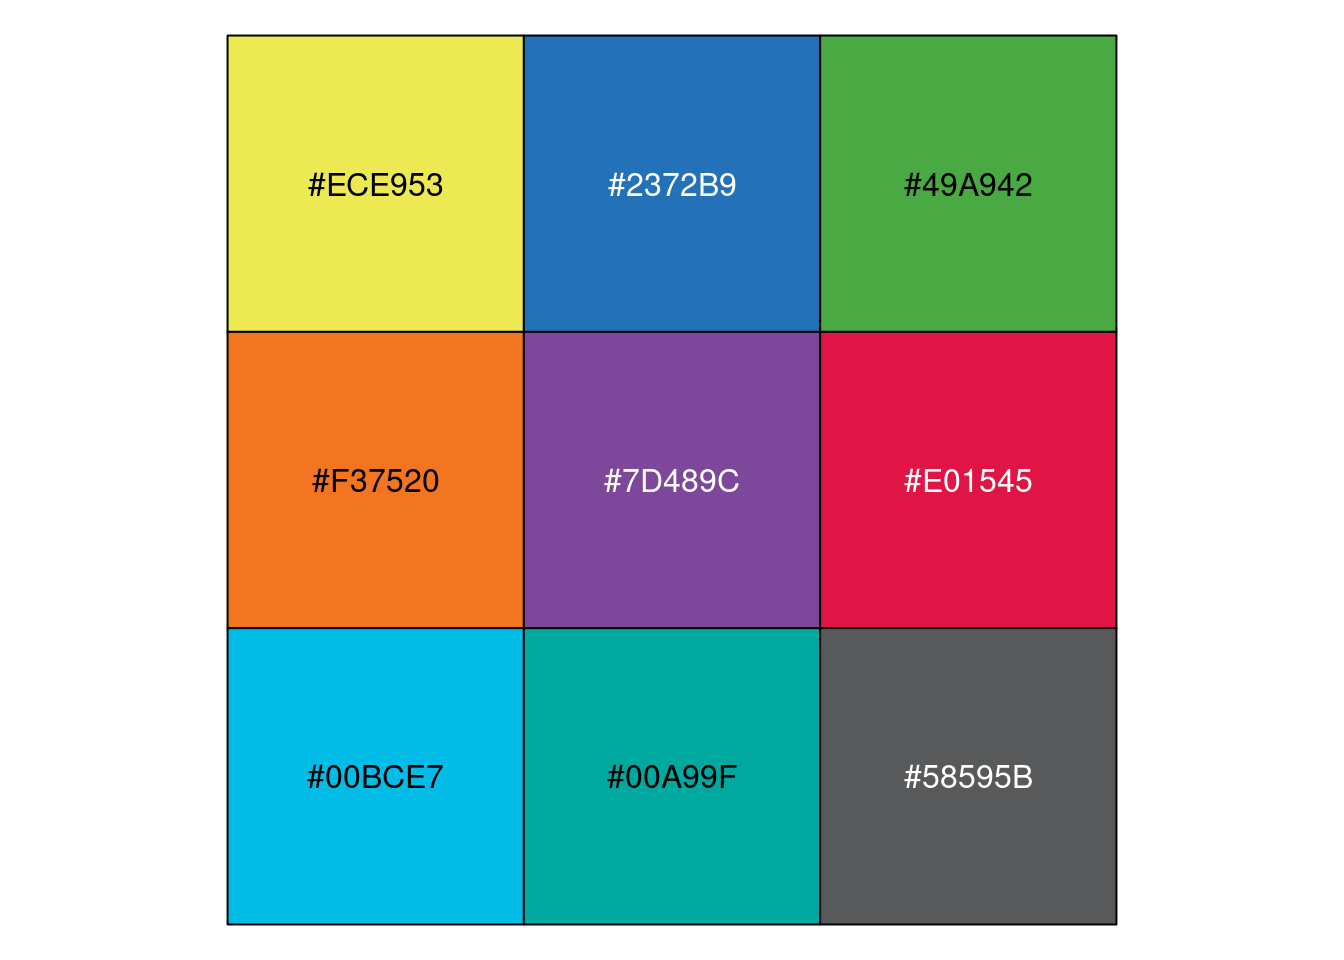
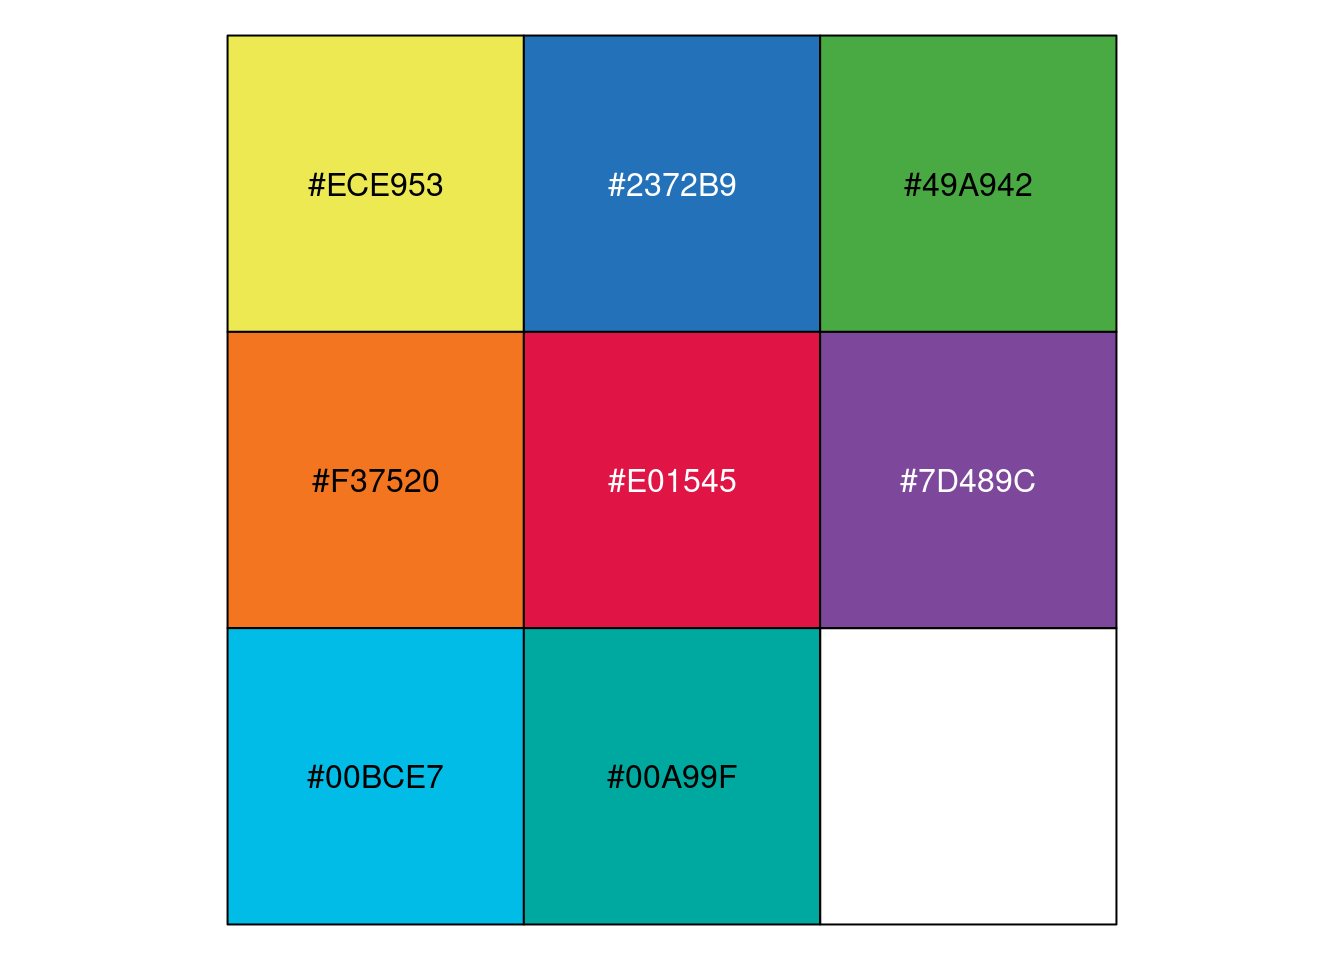
added paired scale, refactored continuous scale

Changed region(s): [[0.375, 0.3438, 0.8438, 0.9688]]

diff --git a/README.md b/README.md
@@ -14,73 +14,112 @@ devtools::install_github("jemunro/ggwehi")
 ``` r
 library(tidyverse)
 library(ggwehi)
-set.seed(1)
+
 diamonds %>% 
-  sample_n(5000) %>% 
-  ggplot(aes(x = cut, y = price, col = carat)) +
-  geom_jitter(height = 0) + 
-  geom_boxplot(fill = NA, outlier.colour = NA) +
-  scale_colour_wehi_continuous() +
-  ggtitle('Diamonds cut, carat and price')
+  ggplot(aes(x = cut, fill = clarity)) +
+  geom_bar() +
+  scale_fill_wehi() +
+  ggtitle('scale_fill_wehi()')
 ```
 
 <img src="README_figs/README-examples-1.png" width="672" />
 
 ``` r
-diamonds %>% 
-  ggplot(aes(x = cut, fill = clarity)) +
-  geom_bar() +
-  scale_fill_wehi() +
-  ggtitle('Diamonds clarity by cut')
+set.seed(1)
+tibble(class_condition = c(rbind(str_c(1:5, 'A'), str_c(1:5, 'B'))),
+       class = str_extract(class_condition, '^.'),
+       condition = str_extract(class_condition, '.$'),
+       value = abs(rnorm(length(class)))) %>% 
+  ggplot(aes(class, value, fill = class_condition)) +
+  geom_col() +
+  scale_fill_wehi_paired() +
+  ggtitle('scale_fill_wehi_paired()')
 ```
 
 <img src="README_figs/README-examples-2.png" width="672" />
 
+``` r
+set.seed(2)
+diamonds %>% 
+  sample_n(5000) %>% 
+  ggplot(aes(x = cut, y = price, col = carat)) +
+  geom_jitter(height = 0, width = 0.35) + 
+  geom_boxplot(fill = NA, outlier.colour = NA, col = 'black') +
+  scale_colour_wehi_continuous() +
+  ggtitle('scale_colour_wehi_continuous()')
+```
+
+<img src="README_figs/README-examples-3.png" width="672" />
+
+``` r
+set.seed(2)
+diamonds %>% 
+  sample_n(5000) %>% 
+  ggplot(aes(x = cut, y = price, col = carat)) +
+  geom_jitter(height = 0, width = 0.35) + 
+  geom_boxplot(fill = NA, outlier.colour = NA, col = 'black') +
+  scale_colour_wehi_continuous(option = 'B') +
+  ggtitle('scale_colour_wehi_continuous(option = \'B\')')
+```
+
+<img src="README_figs/README-examples-4.png" width="672" />
+
 ### Scale functions
 
-  - `scale_fill_wehi()`
-  - `scale_colour_wehi()`
-  - `scale_fill_wehi_ordered()`
-  - `scale_colour_wehi_ordered()`
-  - `scale_fill_wehi_continuous()`
-  - `scale_colour_wehi_continuous()`
-  - `scale_fill_wehi_continuous_c()`
-  - `scale_colour_wehi_continuous_c()`
+  - `scale_fill_wehi()`/`scale_colour_wehi()`
+  - `scale_fill_wehi_paired()`/`scale_colour_wehi_paired()`
+      - Note: This will only work if the aesthetic is such that when
+        alphabetically sorted the pairs are adjacent to one another, and
+        all pairs are complete. For a more general solution use
+        `scale_fill_manual(values = x)` where x is a named vector of
+        values from ggwehi::wehi\_paired.
+  - `scale_fill_wehi_ordered()`/`scale_colour_wehi_ordered()`
+  - `scale_fill_wehi_continuous()`/`scale_colour_wehi_continuous()`
+      - Note: `scale_fill_wehi_continuous(option = 'B')` provides a
+        scale that is better perceived in grayscale and with various
+        forms of colour blindness, similar to
+        `scale_fill_viridis_c(option = 'E')`
 
 ### Palettes
 
 ``` r
-scales::show_col(ggwehi::wehi_primary)
+scales::show_col(wehi_primary)
 ```
 
 <img src="README_figs/README-palettes-1.png" width="672" />
 
 ``` r
-scales::show_col(ggwehi::wehi_secondary)
+scales::show_col(wehi_secondary)
 ```
 
 <img src="README_figs/README-palettes-2.png" width="672" />
 
 ``` r
-scales::show_col(ggwehi::wehi_extended)
+scales::show_col(wehi_extended)
 ```
 
 <img src="README_figs/README-palettes-3.png" width="672" />
 
 ``` r
-scales::show_col(ggwehi::wehi_ordered)
+scales::show_col(wehi_ordered)
 ```
 
 <img src="README_figs/README-palettes-4.png" width="672" />
 
 ``` r
-scales::show_col(ggwehi:::wehi_continous()(seq(0,1,1/9)))
+scales::show_col(wehi_paired)
 ```
 
 <img src="README_figs/README-palettes-5.png" width="672" />
 
 ``` r
-scales::show_col(ggwehi:::wehi_continous_c()(seq(0,1,1/9)))
+scales::show_col(wehi_continous_a()(seq(0,1,1/15)))
 ```
 
 <img src="README_figs/README-palettes-6.png" width="672" />
+
+``` r
+scales::show_col(wehi_continous_b()(seq(0,1,1/15)))
+```
+
+<img src="README_figs/README-palettes-7.png" width="672" />
